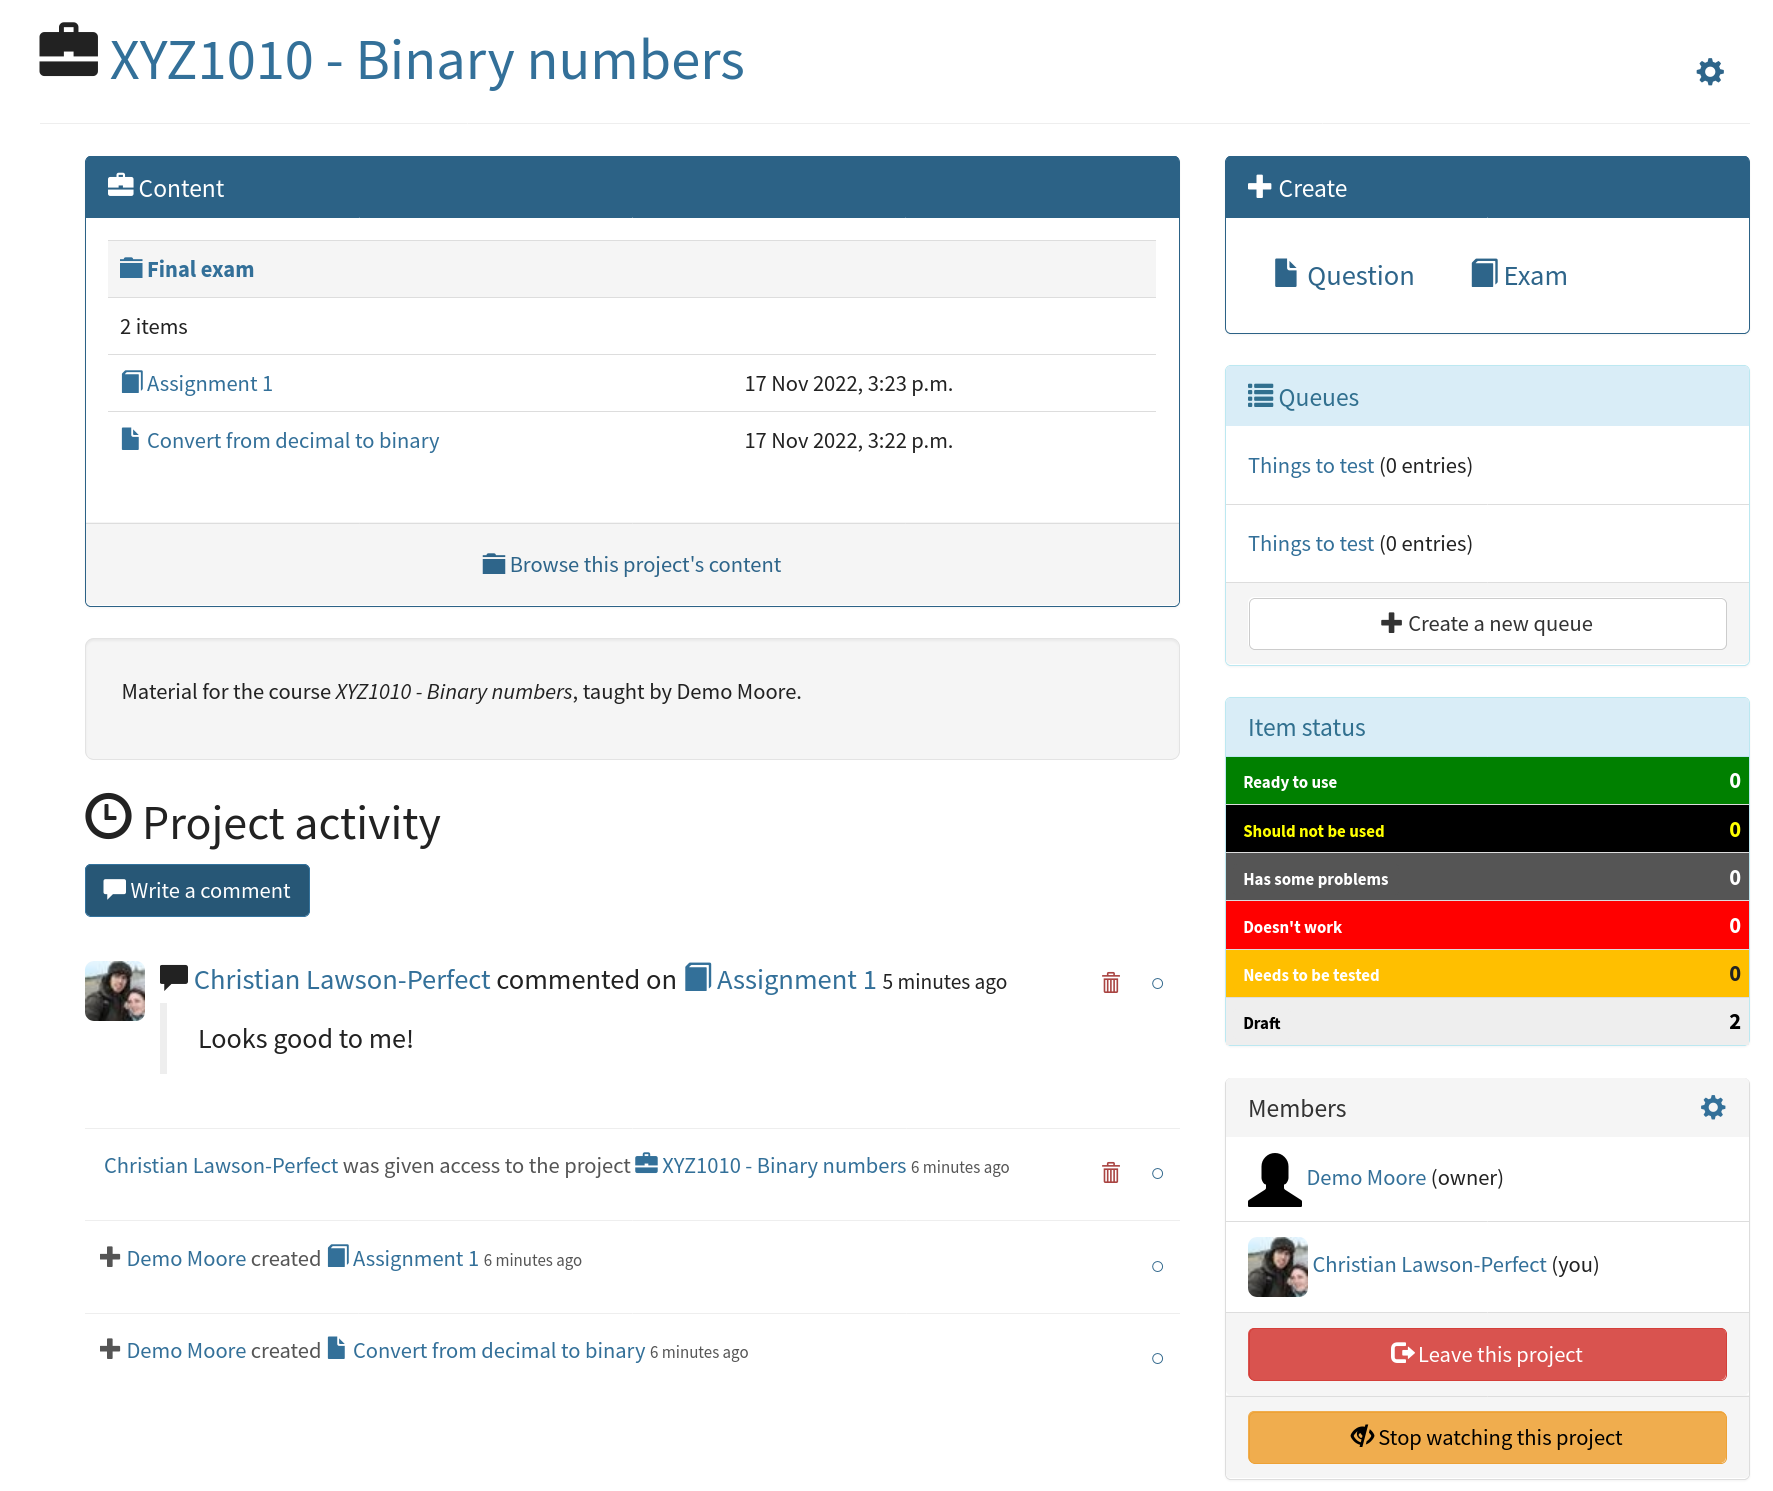
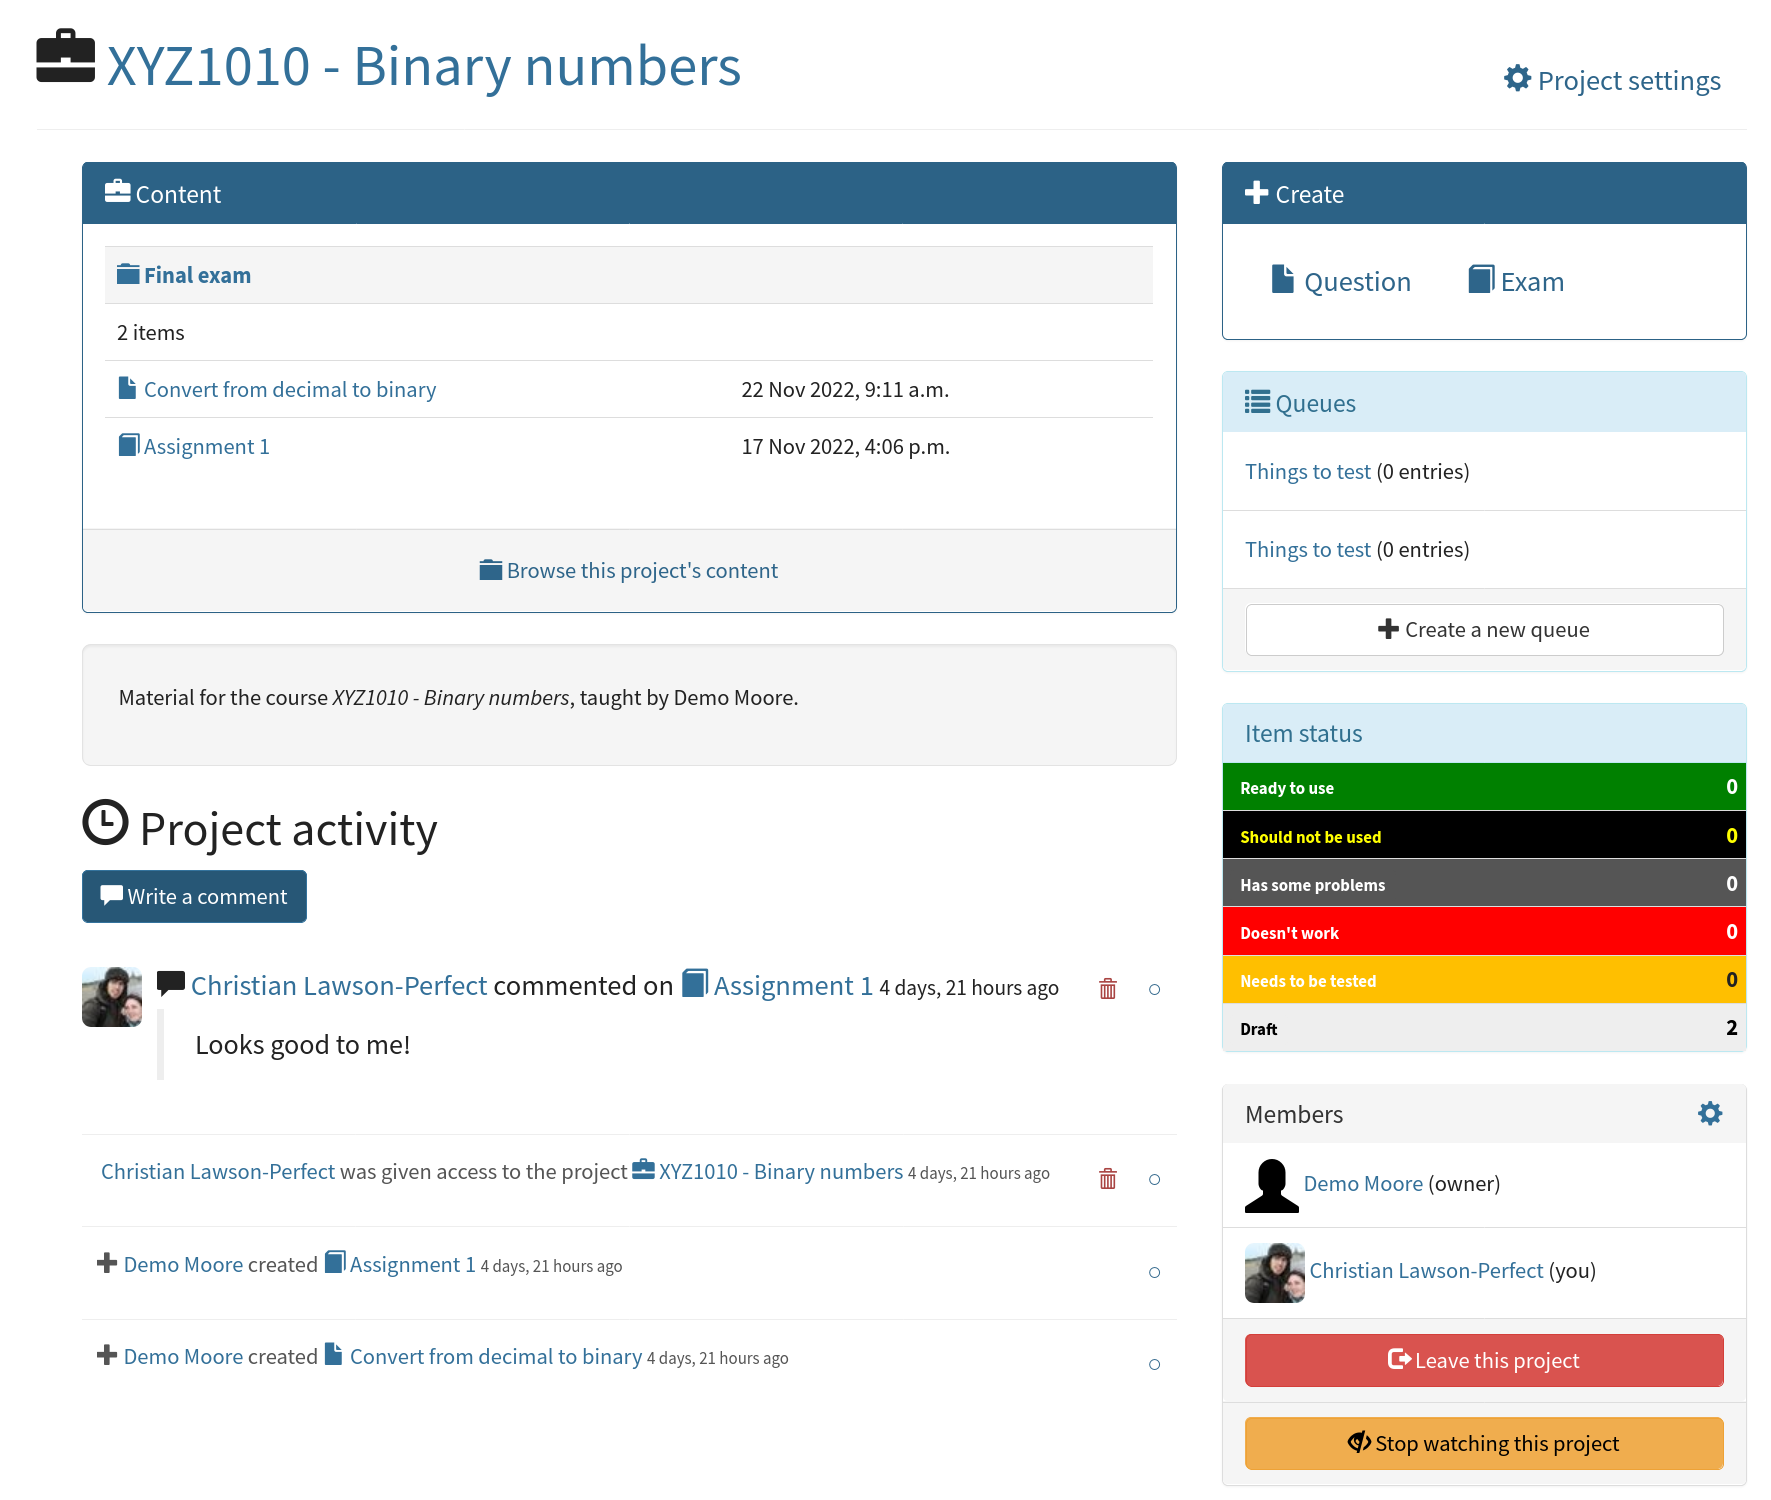
more work on docs

diff --git a/editor/templates/project/options.html b/editor/templates/project/options.html
@@ -1,6 +1,6 @@
 {% extends "project/settings_base.html" %}
 
-{% block title %}Project options - {{block.super}}{% endblock title %}
+{% block title %}Project settings - {{block.super}}{% endblock title %}
 
 {% block javascripts %}
 {{block.super}}
@@ -15,7 +15,7 @@
 
 <div class="panel panel-default">
     <div class="panel-heading">
-        <h3 class="panel-title">Options</h3>
+        <h3 class="panel-title">Settings</h3>
     </div>
     <div class="panel-body">
         <form method="post">
@@ -73,19 +73,17 @@
         </form>
     </div>
 </div>
-{% if request.user == project.owner %}
+{% if request.user == project.owner and project != project.owner.userprofile.personal_project %}
 <div class="panel panel-danger">
     <div class="panel-heading">
         <h3 class="panel-title">Admin actions</h3>
     </div>
     <ul class="list-group">
-        {% if project != project.owner.userprofile.personal_project %}
         <li class="list-group-item">
             <a class="btn btn-danger pull-right" href="{% url 'project_delete' project.pk %}">Delete this project</a>
             <p>Deleting this project will reassign each of its questions and exams to its author's personal workspace.</p>
             <p><strong>This can not be undone.</strong></p>
         </li>
-        {% endif %}
     </ul>
 </div>
 {% endif %}

diff --git a/editor/templates/project/settings_base.html b/editor/templates/project/settings_base.html
@@ -5,7 +5,7 @@
     <div class="row">
         <div class="col-sm-2 tabs">
             <ul class="nav nav-pills nav-stacked">
-                <li class="{% if settings_page == "options" %}active{% endif %}"><a href="{% url 'project_settings_options' project.pk %}"><span class="glyphicon glyphicon-cog"></span> Options</a></li>
+                <li class="{% if settings_page == "options" %}active{% endif %}"><a href="{% url 'project_settings_options' project.pk %}"><span class="glyphicon glyphicon-cog"></span> Settings</a></li>
                 <li class="{% if settings_page == "members" %}active{% endif %}"><a href="{% url 'project_settings_members' project.pk %}"><span class="glyphicon glyphicon-user"></span> Members</a></li>
             </ul>
         </div>

diff --git a/editor/templates/project/project_base.html b/editor/templates/project/project_base.html
@@ -10,7 +10,7 @@
 <div class="page-header">
     {% if project_editable %}
     <span class="settings">
-        <a href="{% url 'project_settings_options' project.pk %}" title="Project settings" class="btn btn-lg btn-link"><span class="glyphicon glyphicon-cog"></span></a>
+        <a href="{% url 'project_settings_options' project.pk %}" title="Project settings" class="btn btn-lg btn-link"><span class="glyphicon glyphicon-cog"></span> Project settings</a>
     </span>
     {% endif %}
     <h1 class="name-header"><span class="glyphicon glyphicon-briefcase"></span> <a href="{% url 'project_index' project.pk %}">{{project.name}}</a></h1>

diff --git a/docs/project/reference.rst b/docs/project/reference.rst
@@ -41,7 +41,7 @@ A project's home page shows a *timeline* of activity on the project, the list of
 The timeline shows all activity on exams or questions belonging to the question, as well as comments attached to the project itself.
 Timeline items belonging to each project you're a member of will also be shown in your personal timeline on the editor homepage.
 
-The cog icon at the top of the page takes you to the project's options page. 
+The :guilabel:`Project settings` link at the top of the page takes you to the project's settings page. 
 On this page you can change any of the project's settings or, if you're the project's owner and it isn't your personal workspace, delete it.
 
 
@@ -71,6 +71,8 @@ Click on the cog icon at the top-right of the page to change a project's setting
 .. _public-project:
 
 If :guilabel:`Visible to non-members?` is ticked, the project and all of its **published** content will be visible to the general public.
+
+The :guilabel:`Default language` and :guilabel:`Default licence` determine the settings used for new questions and exams created within this project.
 
 Adding someone to a project
 ===========================
@@ -116,7 +118,7 @@ You can't delete your personal workspace.
     Only delete a project if you're absolutely sure you don't need it any more.
     Deleting a project is an irreversible action that will result in the loss of data belonging to the project. 
 
-To delete a project, go to the project's :guilabel:`Options` page and click on the :guilabel:`Delete this project` button.
+To delete a project, go to the project's :guilabel:`Settings` page and click on the :guilabel:`Delete this project` button.
 
 Questions and exams belonging to the project will be reassigned to their authors' personal workspaces, but any comments on the project's activity timeline will be deleted.
 
@@ -124,12 +126,6 @@ Questions and exams belonging to the project will be reassigned to their authors
 
 Queues
 ======
-
-.. admonition:: Warning
-
-   Queues are an experimental feature.
-
-   The functionality and interface may change significantly in the next few months.
 
 Queues offer a means of organising the editing process for content in a project.
 

diff --git a/docs/exam/reference.rst b/docs/exam/reference.rst
@@ -51,15 +51,21 @@ Admin controls
         .. warning:: 
             Do **NOT** use this link to deliver the exam to students. 
             This link is not permanent and could stop working at any time.
-            Instead, download the exam and put it either on your own webspace or in a VLE.
+            Instead, either download the exam and put it on your own webspace or in a VLE, or use the :guilabel:`Share` button on the preview to obtina a permanent link.
 
-    Make a copy
-        Create a copy of the exam. 
-        Use this to make changes to an exam which does not belong to you.
+    Organisation
+        Actions to organise this exam in the editor database.
 
-    Delete
-        Delete the exam permanently from the database. 
-        The associated questions are not deleted - you must delete them individually, if you want them to be deleted too.
+        Make a copy
+            Create a copy of the exam. 
+            Use this to make changes to an exam which does not belong to you.
+
+        Delete
+            Delete the exam permanently from the database. 
+            The associated questions are not deleted - you must delete them individually, if you want them to be deleted too.
+
+        Add to a queue
+            Add this exam to a :ref:`queue <item_queues>`.
 
     Download
         Links to download standalone packages of the exam. 
@@ -108,7 +114,7 @@ Click the plus icon on one of the question results to add it to your exam.
 .. image:: images/add_question.png
     :alt: The "Add questions to this exam" section, listing questions in the basket and recently edited questions in a separate tab.
 
-You can drag and drop questions in the list on the left to reorder them, or move them between groups.
+Once you've added some questions to your exam, you can drag and drop questions in the list to reorder them.
 
 The :guilabel:`Replace this question with a copy` lets you quickly swap in a duplicate of a question you've included in your exam. 
 If you're using a question created by someone else, this is a convenient way of getting a version of the question you can make changes to.

diff --git a/README.md b/README.md
@@ -1,20 +1,20 @@
 **Numbas** is an open-source system for creating SCORM-compliant exams which
 run entirely in the browser, developed by [Newcastle University's School of
-Mathematics, Statistics and Physics](http://www.ncl.ac.uk/maths/).
+Mathematics, Statistics and Physics](https://www.ncl.ac.uk/maths-physics/).
 
-This is the Numbas editor. The Numbas runtime can be found at http://github.com/numbas/Numbas.
+This is the Numbas editor. The Numbas runtime can be found at https://github.com/numbas/Numbas.
 
-For more information, see [the Numbas website](http://www.numbas.org.uk).
+For more information, see [the Numbas website](https://www.numbas.org.uk).
 
 ### Installation
 
 Instructions for installation can be found at http://numbas.github.io/editor/.
 
-You probably don't need to set up your own editor installation: there's [a free public editor at **math**centre](http://numbas.mathcentre.ac.uk), which is supported by Newcastle University.
+You probably don't need to set up your own editor installation: there's [a free public editor at **math**centre](https://numbas.mathcentre.ac.uk), which is supported by Newcastle University.
 
 ### Copyright
 
-> Copyright 2011-19 Newcastle University
+> Copyright 2011-22 Newcastle University
 > 
 > Licensed under the Apache License, Version 2.0 (the "License");
 > you may not use this file except in compliance with the License.

diff --git a/docs/authoring/example-gallery/standard-integral.rst b/docs/authoring/example-gallery/standard-integral.rst
@@ -174,7 +174,7 @@ We have introduced some randomisation but we're still only asking about one entr
 Choose the function to integrate from a list
 ============================================
 
-Let's make the question randomly choose one of :math:`e^{kx}`, :math:`x^k`, :math:`\cos(kx)` or :math:`sin(kx)` as the function to integrate.
+Let's make the question randomly choose one of :math:`e^{kx}`, :math:`x^k`, :math:`\cos(kx)` or :math:`\sin(kx)` as the function to integrate.
 
 There are two ways of doing this, each with their own benefits and drawbacks.
 
